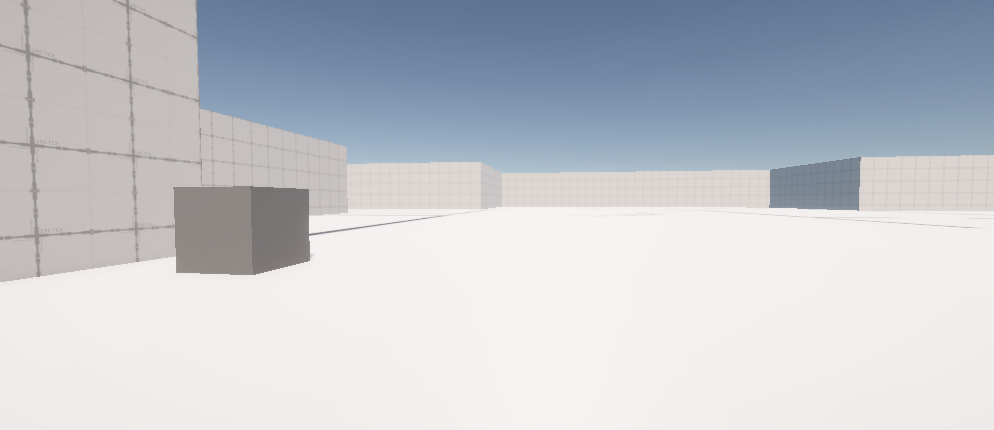
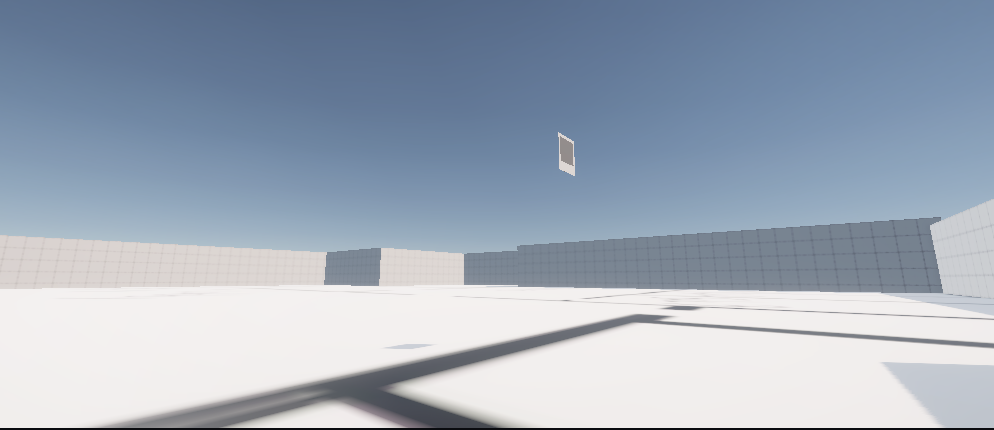
Invemtory added and change save foto path and format

diff --git a/Assets/Scripts/CameraController.cs b/Assets/Scripts/CameraController.cs
@@ -19,11 +19,10 @@ public class CameraController : MonoBehaviour
 
 
     [Header("Configuración")]
-    //[SerializeField] private string rutaFotos = "Assets/Fotos/"; // Ruta para guardar las fotos
     public int aimPriority = 20; // Prioridad alta al apuntar
     public int defaultPriority = 9; // Prioridad baja al dejar de apuntar
     public int coldownFoto = 2; // Tiempo de espera entre cada foto (en segundos)
-
+    private string rutaFotos; // Ruta donde se guardarán las fotos
 
     [Header("Configuración del Prefab")]
     [SerializeField] private GameObject prefabFotoFisica; 
@@ -40,11 +39,31 @@ public class CameraController : MonoBehaviour
     [SerializeField] private float duracionApagadoFlash = 1f; // Tiempo que tarda en apagarse la luz después del flash
 
 
-    private int contadorFotos = 0;
+    private int contadorFotos = 0; //GestorInventario.Instance.fotosEnInventario.Count; // Contador para nombrar las fotos de forma única
     private float tiempoProximaFoto = 0f;
 
     #endregion
     #region Unity Methods
+
+    // CUANDO EXPORTEMOS LA CARPETA ASSETS NO SALDRÁN LOS ARCHIVOS DE FOTOS, POR ESO GUARDAMOS EN PERSISTENTDATA
+
+    void Awake()
+    {
+        // Guardaremos las fotos en una subcarpeta llamada "AlbumPolaroid"
+        rutaFotos = Path.Combine(Application.persistentDataPath, "AlbumPolaroid");
+
+        if (!Directory.Exists(rutaFotos))
+        {
+            Directory.CreateDirectory(rutaFotos);
+            Debug.Log("¡Carpeta creada por primera vez! Ruta: " + rutaFotos);
+        }
+        else
+        {
+            Debug.Log("La carpeta ya existía en: " + rutaFotos);
+        }
+    }
+    
+
     void Start()
     {
         if (aimCamera != null)
@@ -192,18 +211,19 @@ public class CameraController : MonoBehaviour
             GameObject fotoInstanciada = Instantiate(prefabFotoFisica, puntoDeAparicion.position, puntoDeAparicion.rotation);
 
             // Buscamos el MeshRenderer 
-            MeshRenderer quadRenderer = fotoInstanciada.GetComponentInChildren<MeshRenderer>();
+            MeshRenderer meshRenderer = fotoInstanciada.GetComponentInChildren<MeshRenderer>();
 
-            if (quadRenderer != null)
+            if (meshRenderer != null)
             {
                 // Le aplicamos el nuevo material al Quad
-                quadRenderer.material.mainTexture = fotoCapturada;
+                meshRenderer.material.mainTexture = fotoCapturada;
                 Debug.Log("¡Foto creada físicamente y material aplicado al Quad!");
+                //GuardarFoto(fotoInstanciada);
                 InteractuarConFoto(fotoInstanciada);
             }
             else
             {
-                Debug.LogError("El prefab de la foto no tiene un MeshRenderer (Quad) en sí mismo o sus hijos.");
+                Debug.LogError("El prefab de la foto no tiene un MeshRenderer ");
             }
         }
         else
@@ -222,6 +242,41 @@ public class CameraController : MonoBehaviour
         else
         {
             Debug.LogError("No se puede interactuar con una foto nula.");
+        }
+    }
+
+    public void GuardarFoto(GameObject foto)
+    {
+        if (foto != null)
+        {
+            string idFoto = "Foto_" + contadorFotos;
+
+            string nombreArchivo = idFoto + ".png";
+            string rutaCompleta = Path.Combine(rutaFotos, nombreArchivo);
+
+            // Asegurarse de que la carpeta exista
+            if (!Directory.Exists(rutaFotos))
+            {
+                Directory.CreateDirectory(rutaFotos);
+            }
+
+            // Guardar la textura de la foto en un archivo PNG
+            Texture2D texturaFoto = ((MeshRenderer)foto.GetComponentInChildren<MeshRenderer>()).material.mainTexture as Texture2D;
+            byte[] bytes = texturaFoto.EncodeToPNG();
+            File.WriteAllBytes(rutaCompleta, bytes);
+
+            // Agregar la foto al inventario
+            DatosFotos nuevaFoto = new DatosFotos(idFoto, rutaFotos + "Foto_" + contadorFotos + ".png");   
+            GestorInventario.Instance.AgregarFoto(nuevaFoto);
+
+            Destroy(texturaFoto); // Liberar la textura de la memoria
+            Destroy(foto); // Eliminar la foto del juego después de guardarla
+
+            Debug.Log("Foto guardada en: " + rutaCompleta);
+        }
+        else
+        {
+            Debug.LogError("No se puede guardar una foto nula.");
         }
     }
     #endregion

diff --git a/Assets/Scripts/GestorInventario.cs b/Assets/Scripts/GestorInventario.cs
@@ -1,0 +1,41 @@
+using UnityEngine;
+using System.Collections.Generic;
+public class GestorInventario : MonoBehaviour
+{
+    #region Values
+    public static GestorInventario Instance { get; private set; }
+
+    [Header("Inventario")]
+    public List<DatosFotos> fotosEnInventario = new List<DatosFotos>(); // Lista para almacenar las fotos en el inventario
+
+    #endregion
+    #region Unity Methods
+    void Awake()
+    {
+        if (Instance == null)
+        {
+            Instance = this;
+            DontDestroyOnLoad(gameObject); // Mantener el gestor de inventario entre escenas
+        }
+        else
+        {
+            Destroy(gameObject); // Asegurar que solo haya una instancia del gestor de inventario
+        }
+    }
+    #endregion
+
+    #region Inventory Methods
+    public void AgregarFoto(DatosFotos foto)
+    {
+        if (foto != null && !string.IsNullOrEmpty(foto.rutaDelArchivoLocal))
+        {
+            fotosEnInventario.Add(foto);
+            Debug.Log("Foto agregada al inventario. Total de fotos: " + fotosEnInventario.Count);
+        }
+        else
+        {
+            Debug.LogError("No se puede agregar una foto nula al inventario.");
+        }
+    }
+    #endregion
+}

diff --git a/Assets/Scripts/DatosFotos.cs b/Assets/Scripts/DatosFotos.cs
@@ -1,0 +1,14 @@
+using UnityEngine;
+
+[System.Serializable]
+public class DatosFotos
+{
+    public string idFoto; // Id de la foto
+    public string rutaDelArchivoLocal; // Ruta del archivo local donde se guardará el png
+
+    public DatosFotos(string id, string ruta)
+    {
+        idFoto = id;
+        rutaDelArchivoLocal = ruta;
+    }
+}
